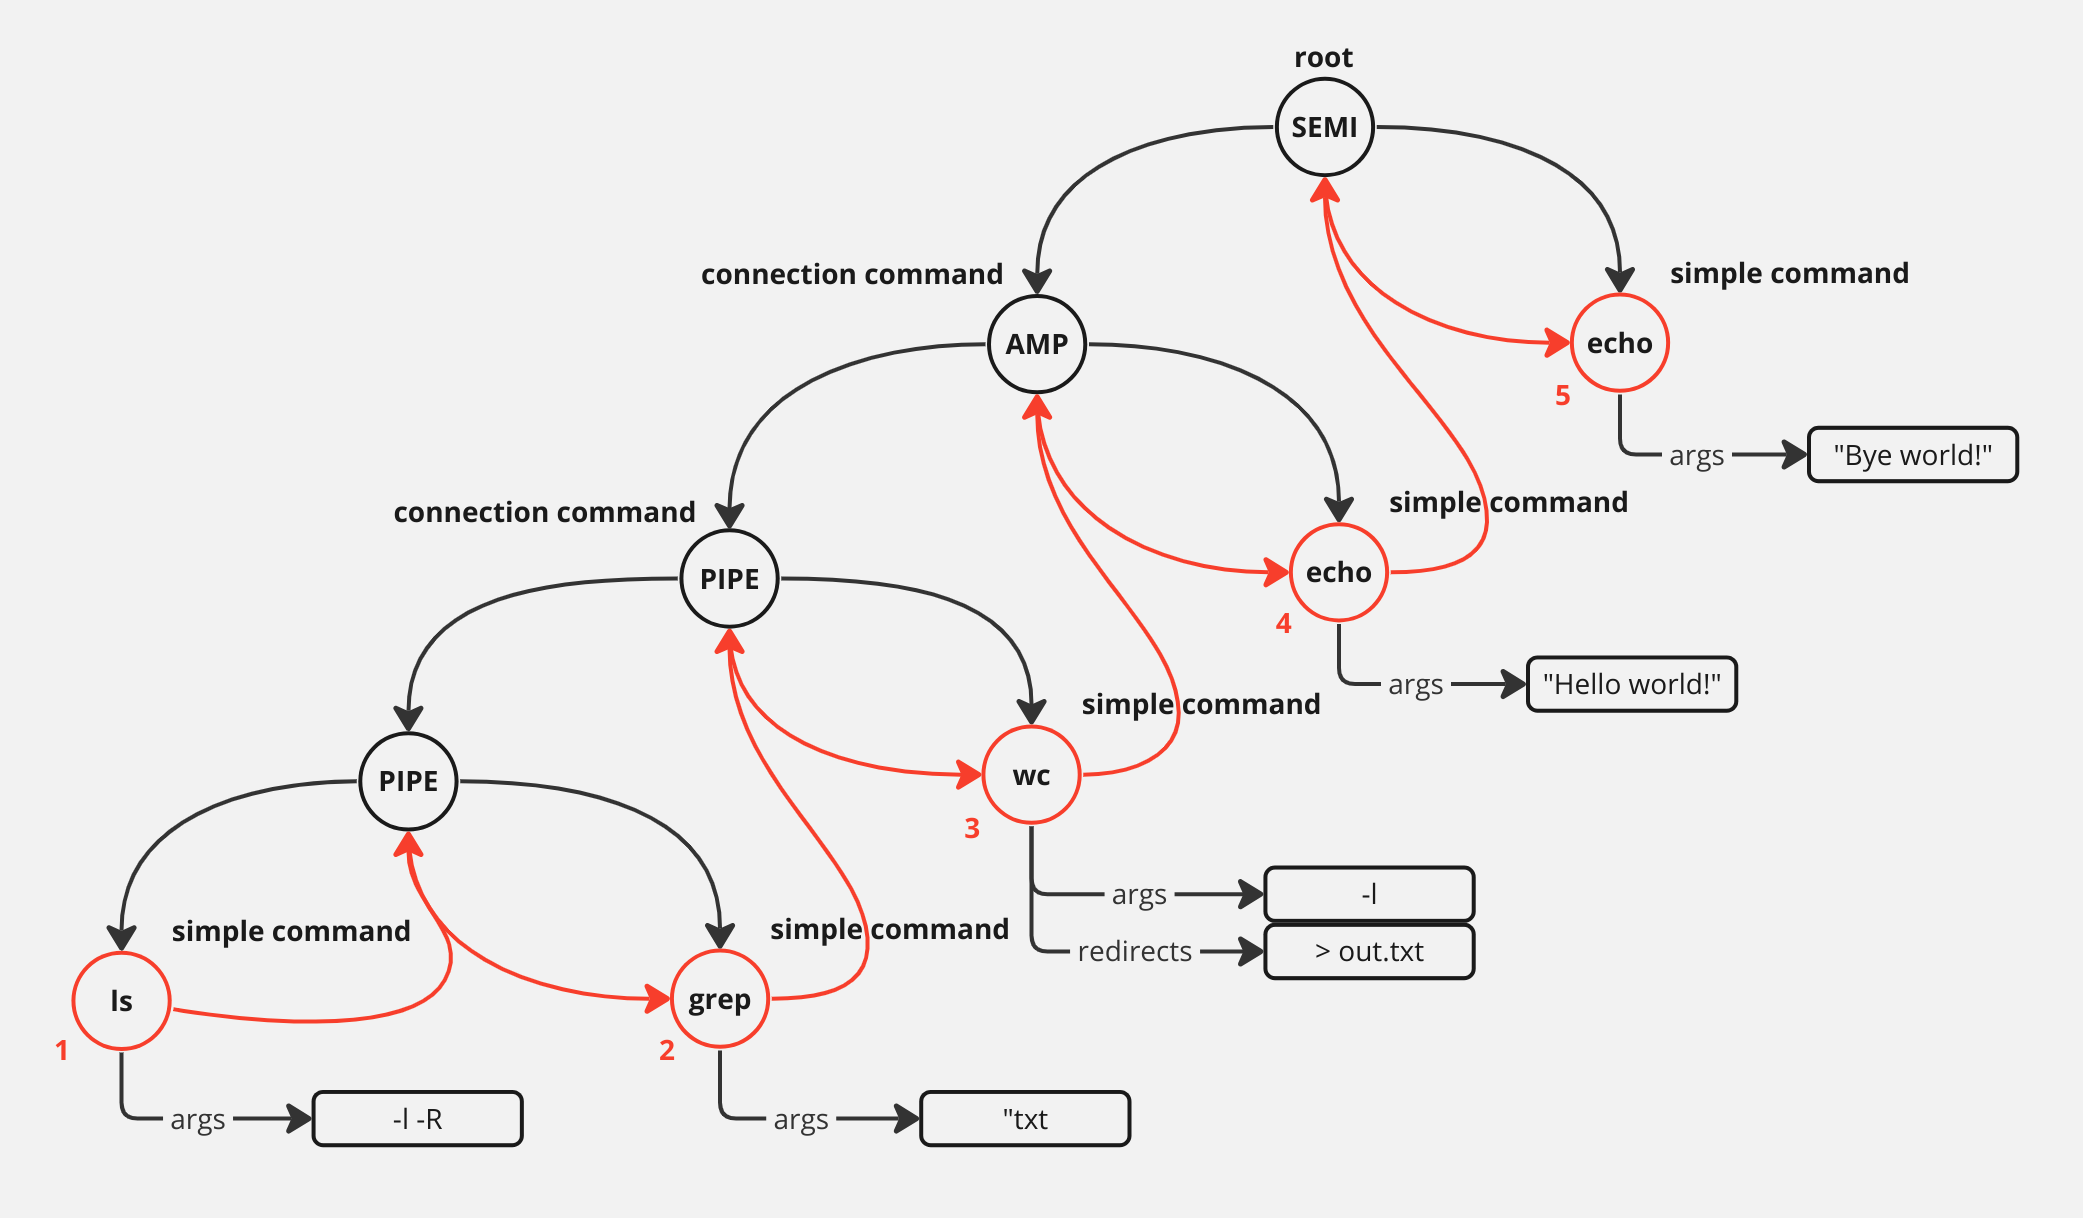
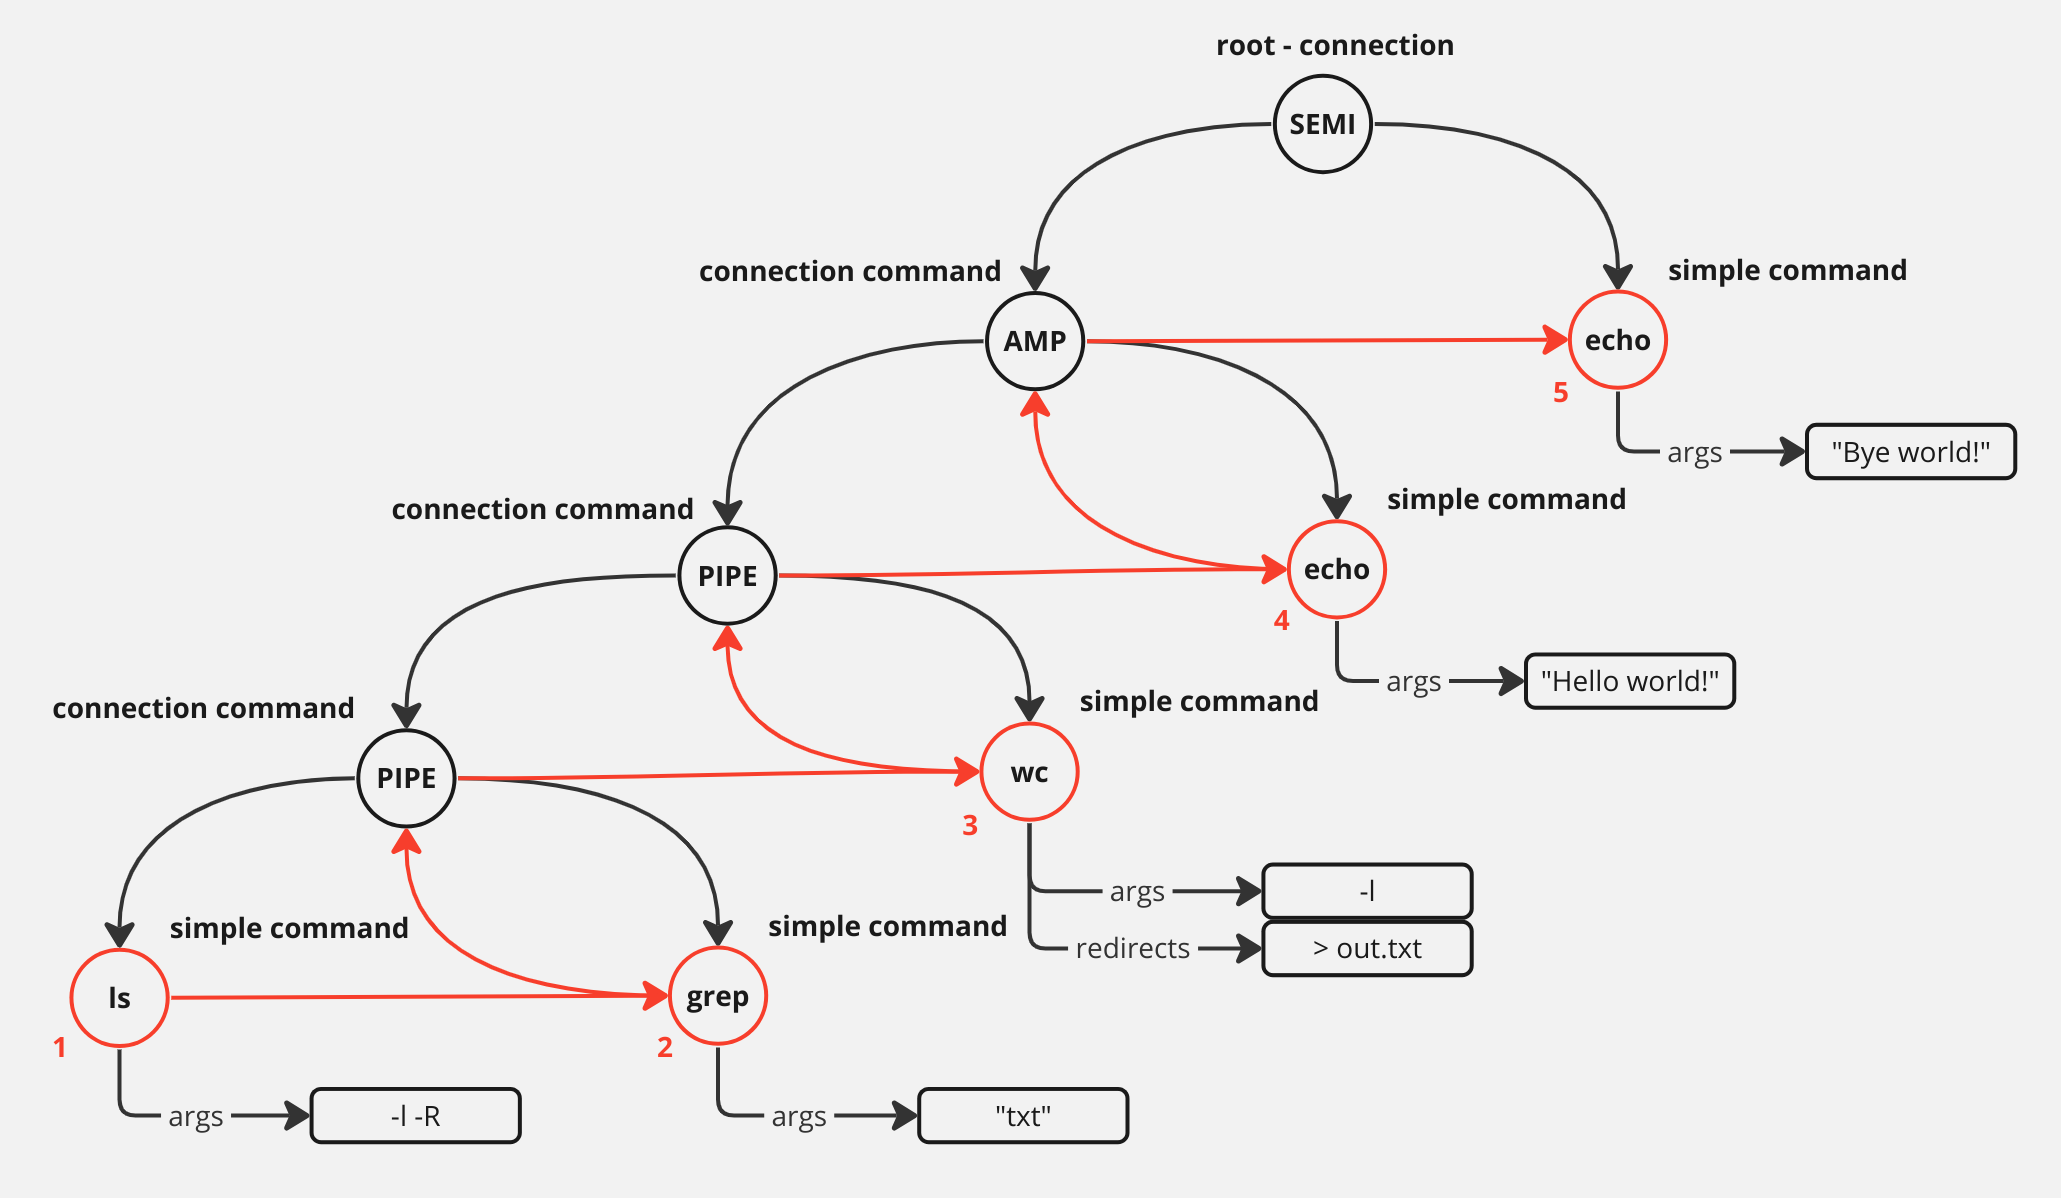
Minor appearance fixes

diff --git a/README.md b/README.md
@@ -1,8 +1,8 @@
 # Lab work 6: myshell 2 - a custom shell implementation
 Authors (team): 
-- [Yurii Kharabara](https://github.com/YuriiKharabara)
 - [Andrii Yaroshevych](https://github.com/andylvua)
 - [Pavlo Kryven](https://github.com/codefloww)
+- [Yurii Kharabara](https://pbs.twimg.com/media/F-bInKaWIAA2LoW?format=jpg&name=medium)
 
 ## Description
 This project is a custom command-line interpreter that provides a user interface for executing commands. 
@@ -15,7 +15,7 @@ The documentation for the whole project is available here:
 #### https://andylvua.github.io/myshell-docs/
 
 This also includes documentation for external utilities shipped with the shell. Fell free to read it, as 
-it may be useful for understanding the project and it's components.
+it may be useful for understanding the project and its components.
 
 ## Compilation and running
 
@@ -50,12 +50,14 @@ Besides, it heavily relies on the following libraries:
     ./build/myshell
     ```
 
-> **Note**
+> **Warning**
 > 
-> Alternatively, you can use the provided `compile.sh` script to compile and run the project:
-> ```bash
-> ./compile.sh -O
-> ```
+> The project contains multiple targets. The main target is `myshell`. Don't forget to also compile
+> the external utilities shipped with the shell if you are using IDE for compilation. 
+> 
+> Currently, the following external utilities are supported:
+> - `mycat`
+> - `myrls`
 
 ## Usage
 
@@ -80,7 +82,7 @@ Also, this allows us to use the persistent history between different runs of the
 
 If you want to change the path to the history file, consider changing the `MSH_HISTORY_PATH` variable in the `CMakeLists.txt` file to your desired path.
 
-## Updates from myshell 1
+## Updates since myshell 1
 
 All mistakes and bugs from `myshell 1` were fixed. The shell is now fully functional and supports all features from the main task.
 
@@ -196,6 +198,20 @@ echo $(mexport var="world!"; echo $(echo "Hello, $var" | cat))
 
 will print `Hello, world!` to the standard output.
 
+Command substitution is not performed inside single quotation marks:
+```bash
+echo 'Hello, $(whoami)!'
+```
+
+will print `Hello, $(whoami)!`.
+
+Quotes may appear inside the command substitution, so the following command are also supported:
+```bash
+echo "$(echo 'Mixed "Quotes" support in $SHELL')"
+echo $(echo ")")
+```
+
+and will print `Mixed "Quotes" support in $SHELL` and `)` respectively.
 ### Job Control
 
 `myshell` supports the simplest job control for illustrative purposes. It allows users to manage background processes.
@@ -241,7 +257,7 @@ $ mjobs
 > only after the whole pipeline is executed. This is not crucial for the shell, nevertheless, it is not kind of
 > expected behavior.
 
-Job control is implemented in the [src/internal/msh_jobs.cpp](src/internal/msh_jobs.cpp) file and planned to be improved in the future to support more advanced features such as process groups and job control signals.
+Job control is implemented in the [msh_jobs.cpp](src/internal/msh_jobs.cpp) file and planned to be improved in the future to support more advanced features such as process groups and job control signals.
 
 ## Implementation details
 
@@ -278,17 +294,18 @@ When `myshell` starts, it initializes essential configurations:
 `myshell` enters its main loop, continuously awaiting user input. 
 Within this loop, the following operations are performed:
 
-- Read User Input <br><br>
+- Read User Input <br>
 The shell waits for the user to enter a command.
-<br><br>
-- Tokenization and syntax checking <br><br>
+
+- Tokenization and syntax checking <br>
 The input is tokenized using a lexer/tokenizer, breaking the user input into individual tokens representing commands, arguments, or special symbols. If the input is invalid, the shell prints an error message and stops the execution of the current input.
-<br><br>
-- Building Command Tree <br><br>
+
+- Building Command Tree <br>
 The shell builds a command tree from the tokens. The command tree is a tree-like structure that represents the pipeline with specific types of connections. This process is not trivial, so it's described in more detail in the [Command Tree](#command-tree) section.
-<br><br>
+<br>
 The alias expansion is performed during this step, i.e. on the whole command line.
-- Command Execution <br><br>
+
+- Command Execution <br>
 The shell executes the command tree. Before execution of each simple command, the tokens processing is performed. This process is described in more detail in the [Command Execution](#command-execution) section.
 
 
@@ -302,12 +319,12 @@ This section describes the process of building the command tree in more detail.
 
 Consider the following command:
 ```bash
-ls -l -R | grep "txt" | wc -l > out.txt & echo "Hello, world!"; echo "Bye, world!"
+ls -l -R | grep "txt" | wc -l > out.txt & echo "Hello world!"; echo "Bye world!"
 ```
 
 The command tree for this command is shown below:
 
-![Command Tree](./assets/command_tree.png)
+![Command Tree](https://i.imgur.com/pMyCgzK.png)
 
 The root node of the tree is always a `command`. `command` can either hold a pointer to a `simple_command` or a `connection_command`.
 `connection_command` represents a connection between two commands. It can be either a pipeline, a sequential execution, a background execution, or a logical operator.
@@ -315,7 +332,7 @@ It holds a type of connection and objects of type `command` that are connected b
 
 Note that leaf nodes of the tree are always `simple_command`s. `simple_command` is the execution unit of the shell. It holds the command arguments, redirections, and other information necessary for execution.
 
-The command tree is built iteratively by the `split_commands()` function located in the [src/internal/msh_utils.cpp](src/internal/msh_utils.cpp) file. You can read more about it and other shell functions in the documentation provided above.
+The command tree is built iteratively by the `split_commands()` function located in the [msh_utils.cpp](src/internal/msh_utils.cpp) file. You can read more about it and other shell functions in the documentation provided above.
 
 ### Command Execution
 
@@ -323,10 +340,10 @@ The execution starts from the root node of the command tree.
 
 Each type of command has its own execution function that implements the corresponding logic. Feel free to read the documentation for `msh_command.h` to learn more about them.
 
-As stated above, the elementary execution unit of the shell is a `simple_command`. They are executed by the `msh_exec_simple()` function located in the [src/internal/msh_exec.cpp](src/internal/msh_exec.cpp) file.
+As stated above, the elementary execution unit of the shell is a `simple_command`. They are executed by the `msh_exec_simple()` function located in the [msh_exec.cpp](src/internal/msh_exec.cpp) file.
 The execution of each node is performed recursively in a post-order manner. For better understanding, here is an illustration of the execution order for the command tree shown above:
 
-![Command Execution](./assets/command_execution.png)
+![Execution Order](https://i.imgur.com/LvBPJyR.png)
 
 Before executing a simple command, if it's located within a connection command, the execution function of the latter is responsible for performing the necessary operations, such as setting up pipes, proper execution flags, etc.
 
@@ -338,15 +355,15 @@ This step involves several sub-steps:
     - _Setting Internal Variables_: The shell processes variable declarations and sets the corresponding internal variables.
     - _Wildcard Expansion_: Wildcard characters are expanded into their corresponding file names.
     - _Tokens Merging_: The shell merges adjacent tokens into a single token if necessary.
-  
+
+This steps is performed by shell utilities located in the [msh_utils.cpp](src/internal/msh_utils.cpp) file.
+
 > **Note**
 > 
 > The result of variable expansion and command substitution is subject to word splitting and filename expansion. To prevent this, enclose the variable in double quotation marks.
 
-<br><br>
 - Argument Processing <br>
 The processed tokens are split into command arguments.
-<br><br>
 
 - Command Execution <br>
 Depending on the command's nature:
@@ -396,7 +413,17 @@ Depending on the command's nature:
   
   Assignment statements of the form `key=value` may also appear as arguments to the `malias` and `mexport` built-in commands. Other than that, variable declarations are treated as regular arguments.
 
-## Additional Tasks (related to myshell 1)
+## Additional Tasks
+
+Although we didn't implement any additional tasks related to `myshell 2`, we've implemented some additional features that we believe are worth mentioning:
+
+1. Full support of redirections, including appending and duplicating file descriptors.
+2. Full support of connections, including pipelines, background, and sequential execution, logical operators.
+3. Full support of command substitution, including nested command substitutions and quoting.
+4. Simple implementation of job control, including background processes and `mjobs` built-in command.
+5. Bash-like word splitting algorithms that support quoting and escaping.
+
+### Additional Tasks (myshell 1)
 
 All additional features from `Additional task 2` are supported:
 
@@ -465,13 +492,3 @@ For more information, please use the `--help` flag.
 > **Note**
 > 
 > Aliases can appear in alias itself. `myshell` incorporates a robust alias expansion mechanism that prevents infinite alias expansion loops.
-
-### Additional Tasks (related to myshell 2)
-
-Although we didn't implement any additional tasks related to `myshell 2`, we've implemented some additional features that we believe are worth mentioning:
-
-1. Full support of redirections, including appending and duplicating file descriptors.
-2. Full support of connections, including pipelines, background, and sequential execution, logical operators.
-3. Full support of command substitution, including nested command substitutions and quoting.
-4. Simple implementation of job control, including background processes and `mjobs` built-in command.
-5. Bash-like word splitting algorithms that support quoting and escaping.
